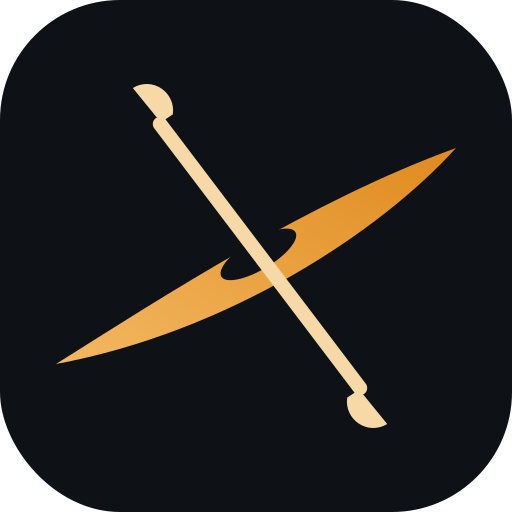
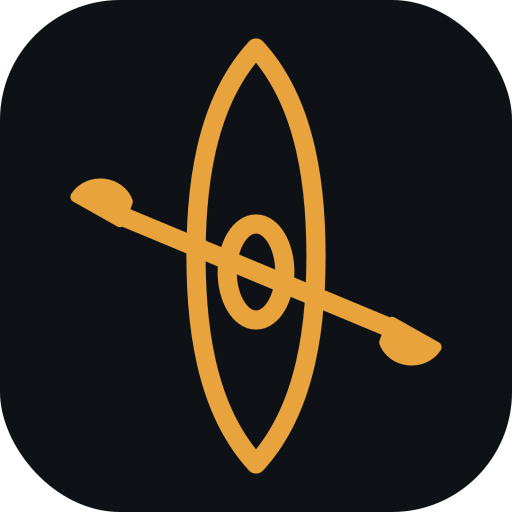
Nouvelle icône : kayak vu du dessus, au trait
Claude-Session: https://claude.ai/code/session_01NnnKUv556R5d6bXpKibHM3

Changed region(s): [[0.125, 0.0625, 0.9062, 0.9375]]

diff --git a/site/sw.js b/site/sw.js
@@ -1,5 +1,5 @@
 // Fichiers du site : réseau d'abord, copie en cache pour le hors-ligne. Tuiles et bibliothèques externes : non gérées.
-const C = 'kayak-v8';
+const C = 'kayak-v9';
 self.addEventListener('install', e => { self.skipWaiting(); e.waitUntil(caches.open(C).then(c => c.addAll(['./', 'index.html', 'manifest.webmanifest', 'icon.svg']))); });
 self.addEventListener('activate', e => e.waitUntil(caches.keys().then(k => Promise.all(k.filter(x => x !== C).map(x => caches.delete(x)))).then(() => self.clients.claim())));
 self.addEventListener('fetch', e => {
